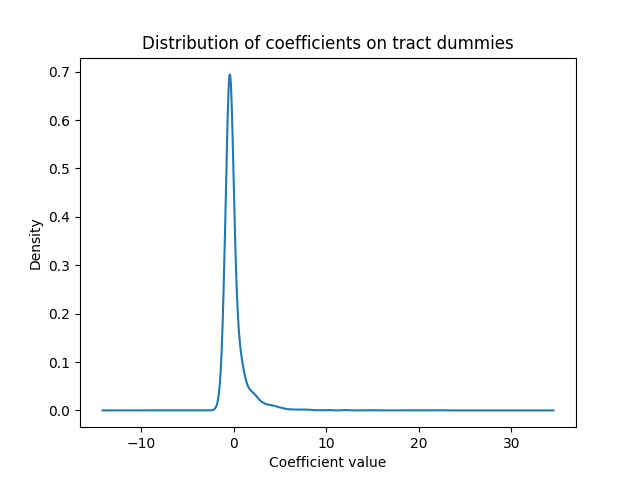
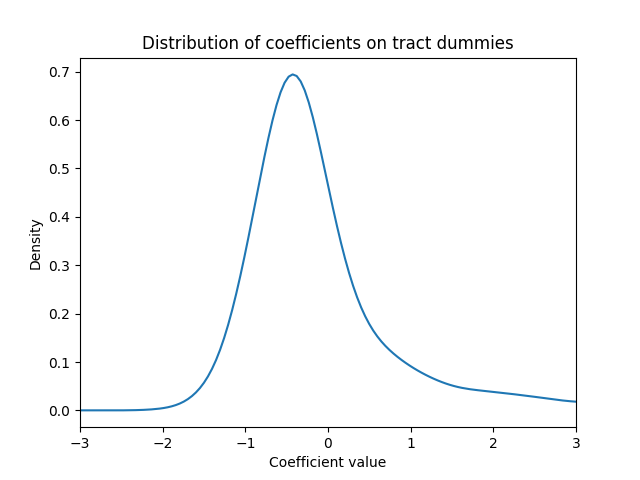
Added optimal alpha to reg. output table; added silhouette score to choose optimal k

diff --git a/code/fepredictionmodel.py b/code/fepredictionmodel.py
@@ -5,23 +5,29 @@ import os
 import numpy as np
 import pandas as pd
 from matplotlib import pyplot as plt
+from sklearn.cluster import KMeans
 from sklearn.linear_model import Ridge
 import dataframe_image as dfi
-from sklearn.metrics import r2_score
-
-"""
-Runs fixed-effects regression models
-"""
+from sklearn.metrics import r2_score, silhouette_score
+from sklearn.preprocessing import normalize
 
 
 class FEPredictionModel:
-    """
-    Initialize a model.
-    """
 
     def __init__(self, datafile, graph_output, table_output, non_numeric_features, model_name, float_format='{:.5f}'):
-        pd.options.display.float_format = float_format.format
+        """
+        Initializes an FEPredictionModel
+        :param datafile: path to balanced panel dataset
+        :param graph_output: location to store graph output
+        :param table_output: location to store table output
+        :param non_numeric_features:  non-numeric features in panel dataset
+        :param model_name: name for model
+        :param float_format: specify how many decimals to include in output tables
+        """
+        pd.options.display.float_format = float_format.format  # specify format of numbers in output tables
+
         self.df = pd.read_csv(datafile)
+        self.df_scaled = None
         self.graph_output = graph_output
         self.table_output = table_output
         self.model_name = model_name
@@ -33,17 +39,25 @@ class FEPredictionModel:
         self.optimal_coefficients = None
         self.optimal_mse = None
         self.optimal_r_squared = None
+        self.optimal_k = None
+        self.optimal_alpha = None
         self.output_table = None
 
         self.non_numeric_features = non_numeric_features
         self.numeric_features = None
         self.fe_dummies = None
 
-    """
-    Divide dataset into a training and testing set such that each contains the same distribution of entities.
-    """
-
     def split_train_test(self, y_col, entity_var, time_var, test_percent=0.25):
+        """
+        Split the data chronologically so that training observations are from strictly earlier periods tha testing observations.
+        :param y_col: label variable
+        :param entity_var: entity variable in panel dataset
+        :param time_var: time variable in panel dataset
+        :param test_percent: percent of observations to include in testing data
+        :return: None
+        """
+
+        # count number of times each entity is observed
         observations_per_entity = self.df[entity_var].value_counts().mode()
 
         # this ensures that when we generate dummies, col titles are strings
@@ -66,23 +80,23 @@ class FEPredictionModel:
         self.y_test = testing_data[y_col]  # separate labels from testing data
         self.x_test = testing_data.drop(columns=y_col)
 
-        # keep track of the numeric feature names in the dataset
+        # keep track of the numeric feature names in the dataset and drop unneeded index columns
         self.x_train = self.x_train.drop(columns='Unnamed: 0')
         self.x_test = self.x_test.drop(columns='Unnamed: 0')
         self.numeric_features = [x for x in list(self.x_train.columns) if x not in self.non_numeric_features]
 
-    """
-    Run fixed-effects ridge regression and produce summary statistics. 
-    """
-
-    def run_ridge(self, fixed_effects_var, exclude_variables=None, include_dummies_in_table=False):
-
+    def run_ridge(self, fixed_effects_var, exclude_variables=None):
+        """
+        Run fixed effects ridge regression and save output in the form of graphs and tables.
+        :param fixed_effects_var: categorical variable to include fixed effects for
+        :param exclude_variables: variables to exclude from the model
+        """
         # generate one dummy variable for each entity except for one
         train_dummies = pd.get_dummies(self.x_train[fixed_effects_var], drop_first=True, prefix=fixed_effects_var, prefix_sep="_")
         self.x_train = pd.concat([self.x_train, train_dummies], axis=1)
         test_dummies = pd.get_dummies(self.x_test[fixed_effects_var], drop_first=True, prefix=fixed_effects_var, prefix_sep="_")
         self.x_test = pd.concat([self.x_test, test_dummies], axis=1)
-        self.fe_dummies = train_dummies.columns
+        self.fe_dummies = train_dummies.columns  # save dummy variable column names
 
         # drop categorical features
         self.x_train = self.x_train.drop(columns=self.non_numeric_features)
@@ -115,14 +129,15 @@ class FEPredictionModel:
         plt.plot(alphas, errors, '.')
         figure1.savefig(os.path.join(self.graph_output, self.model_name + '_mse_plot.png'))
 
-        # store optimal coefficients, prediction error, R2
+        # store optimal coefficients, prediction error, R^2, alpha
         self.optimal_coefficients = coefficients[np.argmin(errors)]
         self.optimal_mse = np.min(errors)
         self.optimal_r_squared = r_squareds[np.argmin(errors)]
+        self.optimal_alpha = alphas[np.argmin(errors)]
         self.output_table = pd.DataFrame({"Variable/Metric": self.x_train.columns,
                                           "Coefficient/Value": self.optimal_coefficients})
 
-        # produce pdf of coefficient values
+        # graph distribution of dummy variable coefficient values
         figure = plt.figure()
         self.output_table.loc[self.output_table["Variable/Metric"].isin(self.fe_dummies)]['Coefficient/Value'].plot.kde(
             title="Distribution of coefficients on " + fixed_effects_var + " dummies")
@@ -130,25 +145,29 @@ class FEPredictionModel:
         plt.xlim(-3, 3)
         figure.savefig(os.path.join(self.graph_output, self.model_name + "_coefficients_distribution.png"))
 
-        # drop rows corresponding to dummy variable coefficients
+        # drop rows from output table corresponding to dummy variable coefficients
         self.output_table = self.output_table.drop(self.output_table.loc[self.output_table['Variable/Metric'].isin(self.fe_dummies)].index)
 
-        # append MSE and R^2 to the output table
+        # append MSE, R^2, alpha to the output table
         self.output_table = self.output_table.append({'Variable/Metric': "MSE",
                                                       'Coefficient/Value': self.optimal_mse}, ignore_index=True)
         self.output_table = self.output_table.append({'Variable/Metric': "R^2",
                                                       'Coefficient/Value': self.optimal_r_squared}, ignore_index=True)
+        self.output_table = self.output_table.append({'Variable/Metric': "alpha",
+                                                      'Coefficient/Value': self.optimal_alpha}, ignore_index=True)
 
         # save output table as PNG
         self.output_table.set_index('Variable/Metric')
         dfi.export(self.output_table, os.path.join(self.table_output, self.model_name + "_regression_output.png"))
 
-    """
-    Produces a KDE of the distribution of a certain variable.
-    """
-
-    def get_kde_plot(self, column, plot_title, xlabel):
-        figure1 = plt.figure(1)
+    def get_kde_plot(self, column, plot_title, x_label):
+        """
+        Produce kernel density estimate of the distribution of a chosen variable
+        :param column: column name corresponding to the variable whose distribution we want to estimate
+        :param plot_title: title on output graph
+        :param x_label: label on output graph's x-axis
+        """
+        figure1 = plt.figure()
         # kde plot for training dataset
         pd.concat([self.x_train, self.y_train], axis=1)[column].plot.kde(title=plot_title,
                                                                          label='Training dataset')
@@ -156,15 +175,17 @@ class FEPredictionModel:
         pd.concat([self.x_test, self.y_test], axis=1)[column].plot.kde(label='Testing dataset')
         figure1.legend(loc='center')
         plt.xlim([-10, 40])
-        plt.xlabel(xlabel)
-        plt.figure(1).savefig(os.path.join(self.graph_output, 'kde_plot_' + column + ".png"))
-
-    """
-    Produce a table of summary statistics for select variables in PNG format.
-    """
+        plt.xlabel(x_label)
+        figure1.savefig(os.path.join(self.graph_output, 'kde_plot_' + column + ".png"))
 
     def get_summary_statistics(self, variables, labels):
+        """
+        Generate table of summary statistics for specified variables
+        :param variables: variables whose summary statistics we want to generate
+        :param labels: English names of specified labels, in order correspoding to the order of :param variables
+        """
 
+        # re-concatenate features and labels; describe the data
         training_statistics = pd.concat([self.x_train[self.numeric_features], self.y_train], axis=1)[variables].describe()
         testing_statistics = pd.concat([self.x_test[self.numeric_features], self.y_test], axis=1)[variables].describe()
 
@@ -172,12 +193,9 @@ class FEPredictionModel:
         training_summary = training_statistics.transpose()
         testing_summary = testing_statistics.transpose()
 
-        print(training_summary.index)
-        print(labels)
-
+        # 
         training_summary['Label'] = pd.Series(labels, index=training_summary.index)
         testing_summary['Label'] = pd.Series(labels, index=training_summary.index)
-
 
         print(pd.Series(labels))
         print(training_summary['Label'])
@@ -185,3 +203,25 @@ class FEPredictionModel:
 
         dfi.export(training_summary[['Label', 'count', 'mean', 'std', '50%']], os.path.join(self.table_output, 'train_summary_stats.png'))
         dfi.export(testing_summary[['Label', 'count', 'mean', 'std', '50%']], os.path.join(self.table_output, 'test_summary_stats.png'))
+
+    """
+    Use k-means to assign each observation to a cluster.
+    """
+
+    def kmeans(self):
+        self.df_scaled = normalize(self.df.drop(columns=self.non_numeric_features))
+        K = range(2, 30)
+        silhouette_coefficients = []  # keep track of sum sq. distances
+        labels = []  # store the labels generated
+        for k in K:
+            km = KMeans(n_clusters=k, random_state=7).fit(self.df_scaled)
+            labels.append(km.labels_)  # store labels from k-means ran for each value of k
+            silhouette_coefficients.append(silhouette_score(self.df_scaled, pd.Series(km.labels_), metric='euclidean'))
+
+        self.optimal_k = K[np.argmax(silhouette_coefficients)]
+        self.df['cluster'] = pd.Series(labels[self.optimal_k])
+        plt.plot(K, silhouette_coefficients, '.')
+        plt.xlabel("Value of k")
+        plt.ylabel("Silhouette score")
+        plt.title("Silhouette scores by value of k")
+        plt.annotate("Maximum silhouette score = " + str(np.max(silhouette_coefficients)), (self.optimal_k, np.max(silhouette_coefficients)))

diff --git a/code/main.py b/code/main.py
@@ -8,6 +8,7 @@ from fepredictionmodel import FEPredictionModel
 from urllib.request import urlopen
 import json
 import plotly.express as px
+import dataframe_image as dfi
 
 # Set paths here
 merged_data = "/Users/arjunshanmugam/Documents/GitHub/project1-arjun-shanmugam/cleaned_data/cleaned_dataset.csv"
@@ -15,6 +16,9 @@ model1_graph_output = "/Users/arjunshanmugam/Documents/GitHub/project1-arjun-sha
 model1_tables_output = "/Users/arjunshanmugam/Documents/GitHub/project1-arjun-shanmugam/output/model1/tables"
 model2_graph_output = "/Users/arjunshanmugam/Documents/GitHub/project1-arjun-shanmugam/output/model2/graphs"
 model2_tables_output = "/Users/arjunshanmugam/Documents/GitHub/project1-arjun-shanmugam/output/model2/tables"
+model3_graph_output = "/Users/arjunshanmugam/Documents/GitHub/project1-arjun-shanmugam/output/model3/graphs"
+model3_tables_output = "/Users/arjunshanmugam/Documents/GitHub/project1-arjun-shanmugam/output/model3/tables"
+output_general = "/Users/arjunshanmugam/Documents/GitHub/project1-arjun-shanmugam/output"
 
 ### Model 1
 model_1 = FEPredictionModel(datafile=merged_data,
@@ -123,3 +127,34 @@ variables = ['filings',
 model_1.get_summary_statistics(variables=variables,
                                labels=labels)
 model_1.run_ridge('tract')
+
+### Model 2
+model_2 = FEPredictionModel(datafile=merged_data,
+                            graph_output=model2_graph_output,
+                            table_output=model2_tables_output,
+                            non_numeric_features=['tract', 'month', 'cz', 'czname', 'county'],
+                            model_name="Model 2")
+model_2.split_train_test(y_col='filings',
+                         entity_var='tract',
+                         time_var='month')
+model_2.run_ridge('county')
+
+### Model 3
+model_3 = FEPredictionModel(datafile=merged_data,
+                            graph_output=model3_graph_output,
+                            table_output=model3_tables_output,
+                            non_numeric_features=['tract', 'month', 'cz', 'czname', 'county'],
+                            model_name="Model 3")
+model_3.kmeans()
+model_3.split_train_test(y_col='filings',
+                         entity_var='tract',
+                         time_var='month')
+model_3.run_ridge('cluster')
+
+# generate concatenated regression output table
+row_names = model_1.output_table['Variable/Metric']
+model_1_output = model_1.output_table['Coefficient/Value']
+model_2_output = model_2.output_table['Coefficient/Value']
+model_3_output = model_3.output_table['Coefficient/Value']
+all_models_output = pd.concat([row_names, model_1_output, model_2_output, model_3_output], axis=1)
+dfi.export(all_models_output, os.path.join(output_general, 'all_models_reg_output.png'))
